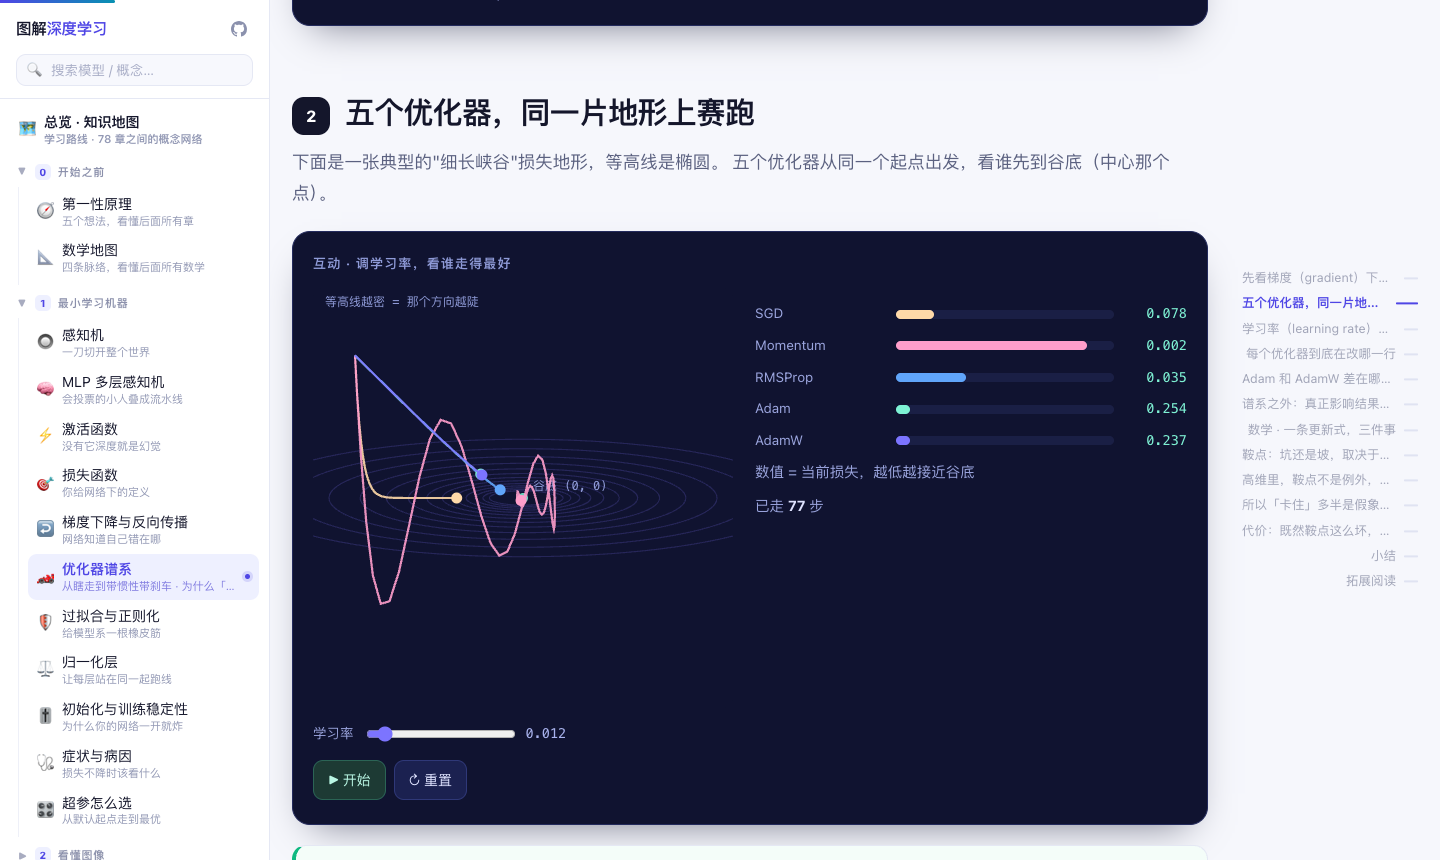
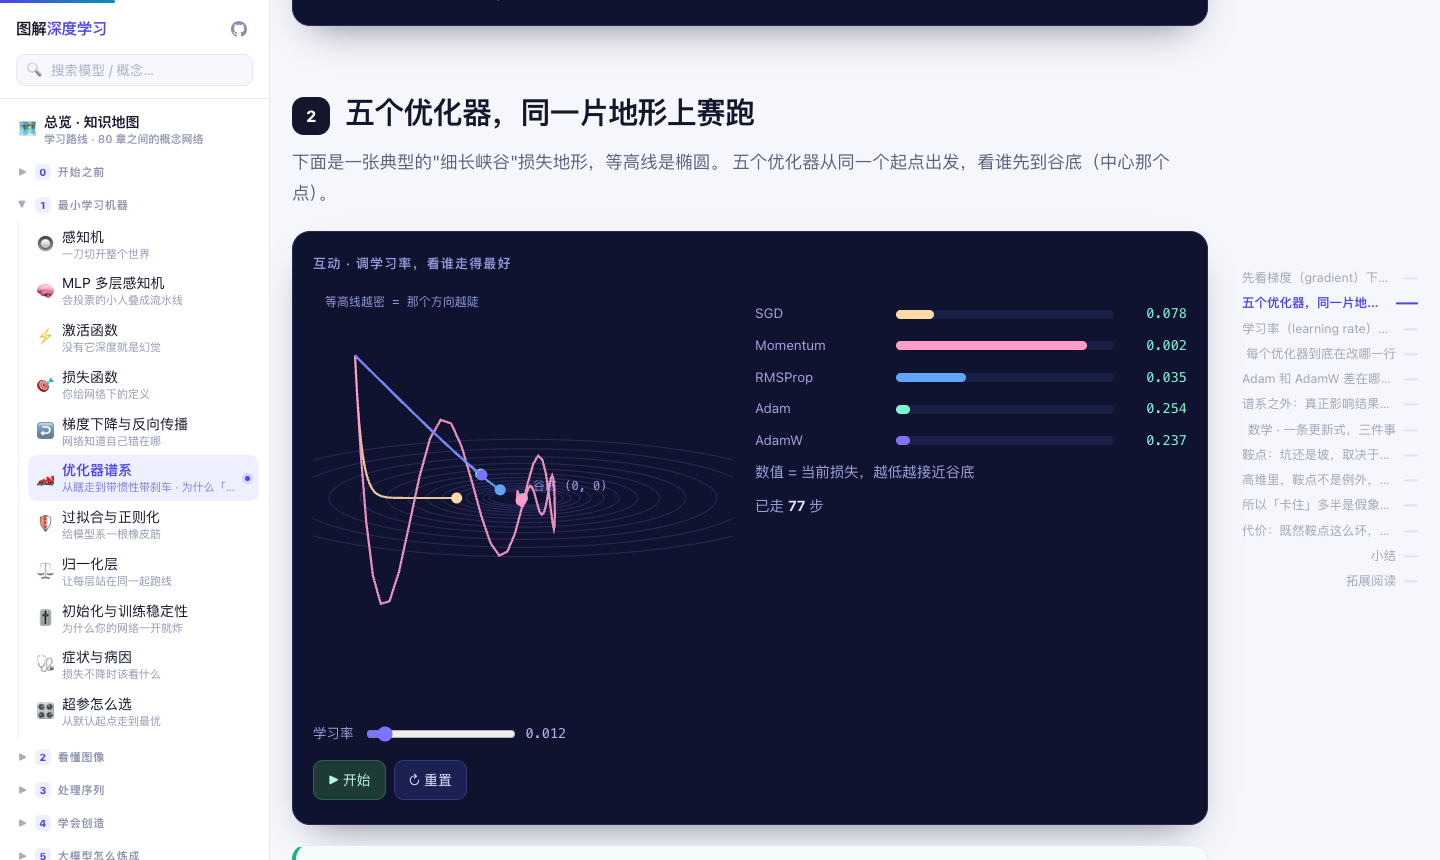
同步新增两章：从芯片到框架 · 集群（78 → 80 章）
站点新增两章，公开仓库这几处跟着改：

  · description：9 个阶段 · 78 章 → 80 章
  · README 封面：78 章 → 80 章
  · 阶段 6 章节表：+2 行（6.1 从芯片到框架、6.3 集群），其余重编号
  · 正文 4 处「78 章」→「80 章」

顺带把知识网络的数字改成真值：

  44 个概念标签 → 45
  257 条边 → 222    ← 257 一直是错的，见下
  平均每章连 6.6 章 → 5.5

那 257 是怎么来的：按 graph.js 的实际规则（两章共享 ≥2 个标签算一条边），
78 章时算出来是 213。257 = 213 + 44，而 44 正好是全部 pre（前置）链接数——
把两种边相加时没去重。6.6 也是从 257 反推的，同样错。

另外 706 canvas → 708、2781 次组件调用 → 2815、120 处内联 SVG → 115。

三张截图重拍（侧栏的章数和条目变了）。

Changed region(s): [[0.0, 0.2116, 0.1562, 1.0], [0.0625, 0.1512, 0.1562, 0.1814]]

diff --git a/README.md b/README.md
@@ -6,7 +6,7 @@
 
 从「一个神经元能算什么」到「大模型到底在想什么」
 
-**9 个阶段 · 78 章 · 全部完成 · 完全免费**
+**9 个阶段 · 80 章 · 全部完成 · 完全免费**
 
 ## 👉 [**deeplearning.wizardwu.top**](https://deeplearning.wizardwu.top) 👈
 
@@ -60,7 +60,7 @@
 
 ### 每一章都是同一个骨架
 
-78 章用的是同一套结构，读到第 5 章你就知道该怎么读了：
+80 章用的是同一套结构，读到第 5 章你就知道该怎么读了：
 
 | | 这一节回答什么 |
 |---|---|
@@ -77,15 +77,15 @@
 
 ### 章与章之间是连起来的
 
-78 章不是 78 个孤岛。每一章末尾有一个**自动生成**的「这一章和什么有关」区块：前置知识、共享概念最多的章、以及按概念串起来的邻居。
+80 章不是 80 个孤岛。每一章末尾有一个**自动生成**的「这一章和什么有关」区块：前置知识、共享概念最多的章、以及按概念串起来的邻居。
 
-数据层只有一件事：每个条目上挂 4 个概念标签（全站 44 个受控标签）。
+数据层只有一件事：每个条目上挂 4 个概念标签（全站 45 个受控标签）。
 
 ```js
 { slug: 'cnn', ..., tags: ['卷积','视觉','表示','线性代数'], pre: ['mlp'] }
 ```
 
-全图规模：**44 个概念标签 · 257 条边 · 27 个横跨 3 个以上阶段的桥 · 零孤立章**。
+全图规模：**45 个概念标签 · 222 条边 · 27 个横跨 3 个以上阶段的桥 · 零孤立章**。
 它找出来的关联，顺着读是发现不了的，例如：
 
 ```
@@ -99,7 +99,7 @@ LoRA（大模型）     →  一致性模型  「压缩」
 
 ### 还有六条暗线
 
-除了表面上的 78 章，全站还埋了**六条暗线**，每一章都必须回答：
+除了表面上的 80 章，全站还埋了**六条暗线**，每一章都必须回答：
 
 **A 信息怎么流动**（数据形状是什么）· **B 什么被牺牲了**（代价是什么）· **C 参数账本**（真实参数量/算力/显存）· **D 跑在什么上**（算力受限还是带宽受限）· **E 它假设了什么**（归纳偏置）· **F 违背了哪个直觉**
 
@@ -149,7 +149,7 @@ LoRA（大模型）     →  一致性模型  「压缩」
 | **分布式训练** | ZeRO 各阶段显存 112 → 38.5 → 26.25 → 14.0 GB |
 | **持续学习** | 真的训练一个网络演示灾难性遗忘，旧任务准确率断崖下跌 |
 
-规模上：**706 个 `<canvas>`**、**120 处内联 SVG 图解**、**2781 次交互组件调用**——每一个背后都是真的在算。
+规模上：**708 个 `<canvas>`**、**115 处内联 SVG 图解**、**2815 次交互组件调用**——每一个背后都是真的在算。
 
 **零依赖 · 断网可用**：纯静态 HTML + CSS + 原生 JS。没有框架、没有构建步骤、没有 CDN。
 下载下来双击 `index.html` 就能看，飞机上也能看。
@@ -172,7 +172,7 @@ LoRA（大模型）     →  一致性模型  「压缩」
 | | **合计** | **77** | 从最基础的一个神经元，一路走到正在改写规则的前沿方法 |
 
 <details>
-<summary><b>展开全部 78 章（点标题直接进在线版）</b></summary>
+<summary><b>展开全部 80 章（点标题直接进在线版）</b></summary>
 
 ### 开篇 · 开始之前 —— 先给你一张地图
 
@@ -260,14 +260,16 @@ LoRA（大模型）     →  一致性模型  「压缩」
 
 | # | 章 | 一句话 |
 |---|---|---|
-| 6.1 | 🔌 **[硬件与算力账本](https://deeplearning.wizardwu.top/pages/hardware.html)** | 算法写出来不等于跑得动 |
-| 6.2 | 🗄 **[推理与 KV Cache](https://deeplearning.wizardwu.top/pages/kvcache.html)** | 生成一个词要算什么 |
-| 6.3 | 📉 **[高效注意力](https://deeplearning.wizardwu.top/pages/attn-efficient.html)** | 把 O(n²) 压下去 |
-| 6.4 | 🎯 **[投机解码与加速](https://deeplearning.wizardwu.top/pages/spec.html)** | 小模型猜、大模型验 |
-| 6.5 | 🕸 **[分布式训练](https://deeplearning.wizardwu.top/pages/parallel.html)** | 一张卡放不下怎么办 |
-| 6.6 | 🧮 **[混合精度与显存账本](https://deeplearning.wizardwu.top/pages/memory.html)** | 训练一次要多少钱 |
-| 6.7 | 🚦 **[服务化与吞吐](https://deeplearning.wizardwu.top/pages/serving.html)** | 怎么同时服务一千人 |
-| 6.8 | 📊 **[评测、基准与幻觉](https://deeplearning.wizardwu.top/pages/eval.html)** | 怎么知道它到底行不行 |
+| 6.1 | 🧱 **[从芯片到框架](https://deeplearning.wizardwu.top/pages/stack.html)** | GPU、CUDA、PyTorch 谁是谁 |
+| 6.2 | 🔌 **[硬件与算力账本](https://deeplearning.wizardwu.top/pages/hardware.html)** | 算法写出来不等于跑得动 |
+| 6.3 | 🏭 **[集群：一千张卡怎么连](https://deeplearning.wizardwu.top/pages/cluster.html)** | 机内 900GB/s，机间只有 50 |
+| 6.4 | 🗄 **[推理与 KV Cache](https://deeplearning.wizardwu.top/pages/kvcache.html)** | 生成一个词要算什么 |
+| 6.5 | 📉 **[高效注意力](https://deeplearning.wizardwu.top/pages/attn-efficient.html)** | 把 O(n²) 压下去 |
+| 6.6 | 🎯 **[投机解码与加速](https://deeplearning.wizardwu.top/pages/spec.html)** | 小模型猜、大模型验 |
+| 6.7 | 🕸 **[分布式训练](https://deeplearning.wizardwu.top/pages/parallel.html)** | 一张卡放不下怎么办 |
+| 6.8 | 🧮 **[混合精度与显存账本](https://deeplearning.wizardwu.top/pages/memory.html)** | 训练一次要多少钱 |
+| 6.9 | 🚦 **[服务化与吞吐](https://deeplearning.wizardwu.top/pages/serving.html)** | 怎么同时服务一千人 |
+| 6.10 | 📊 **[评测、基准与幻觉](https://deeplearning.wizardwu.top/pages/eval.html)** | 怎么知道它到底行不行 |
 
 ### 阶段 7 · 用起来 —— 应用与智能体
 
